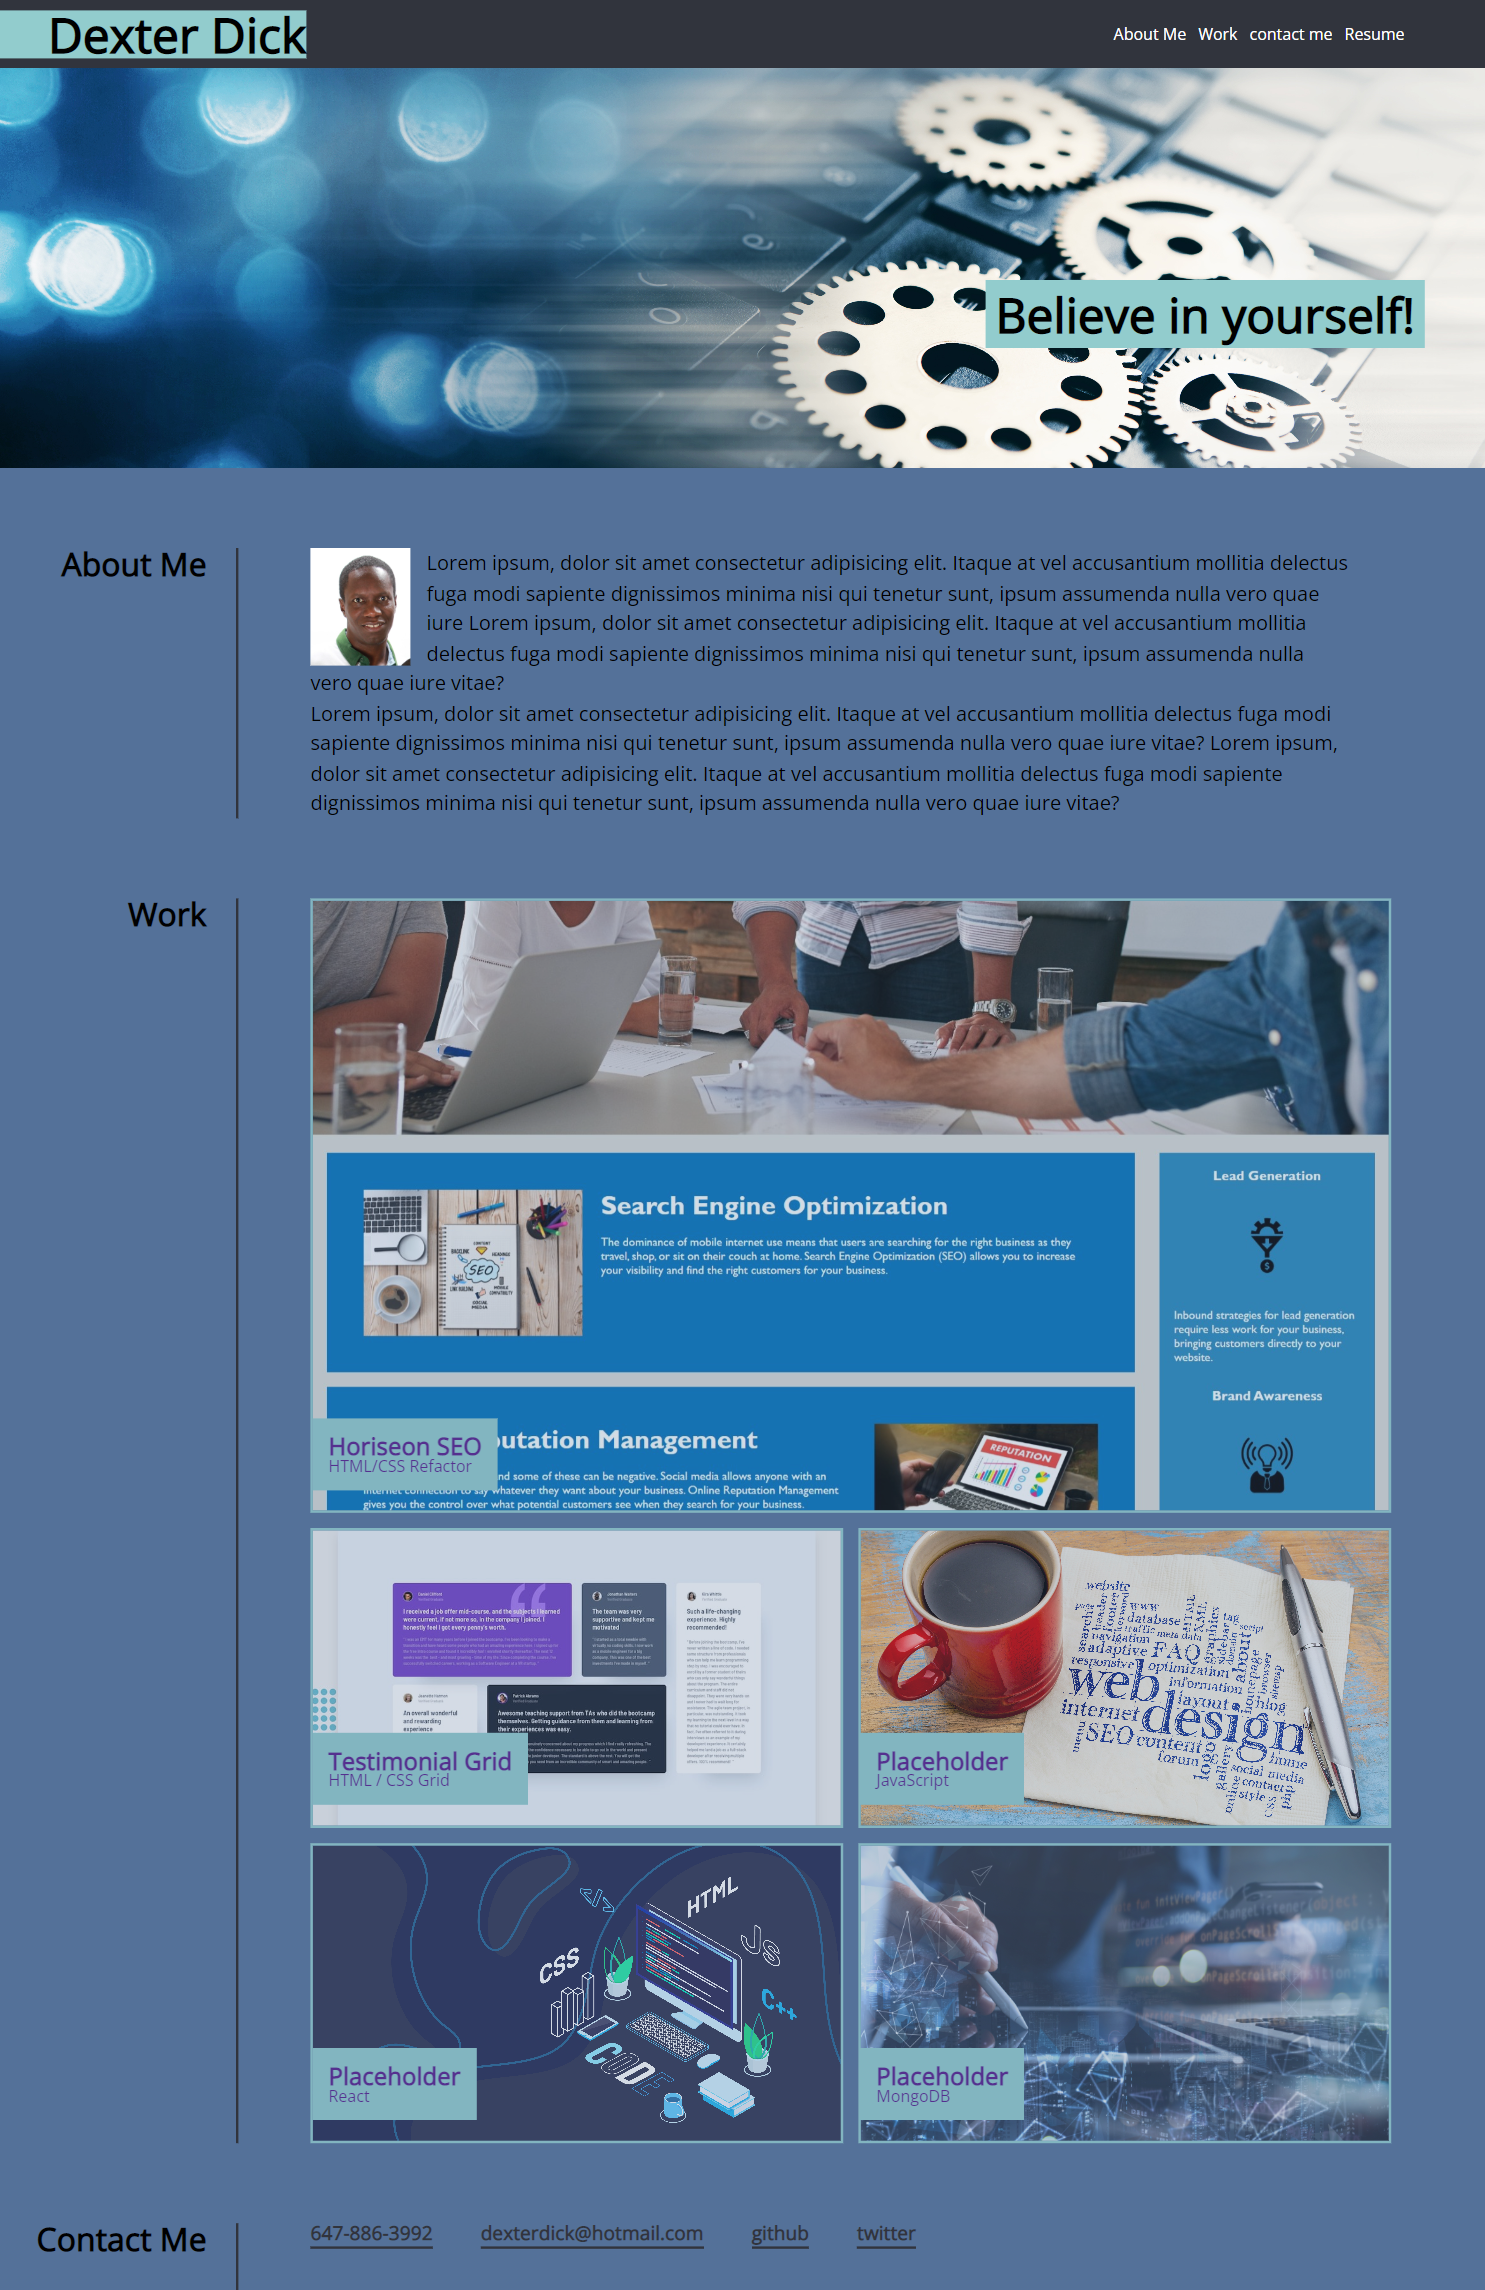
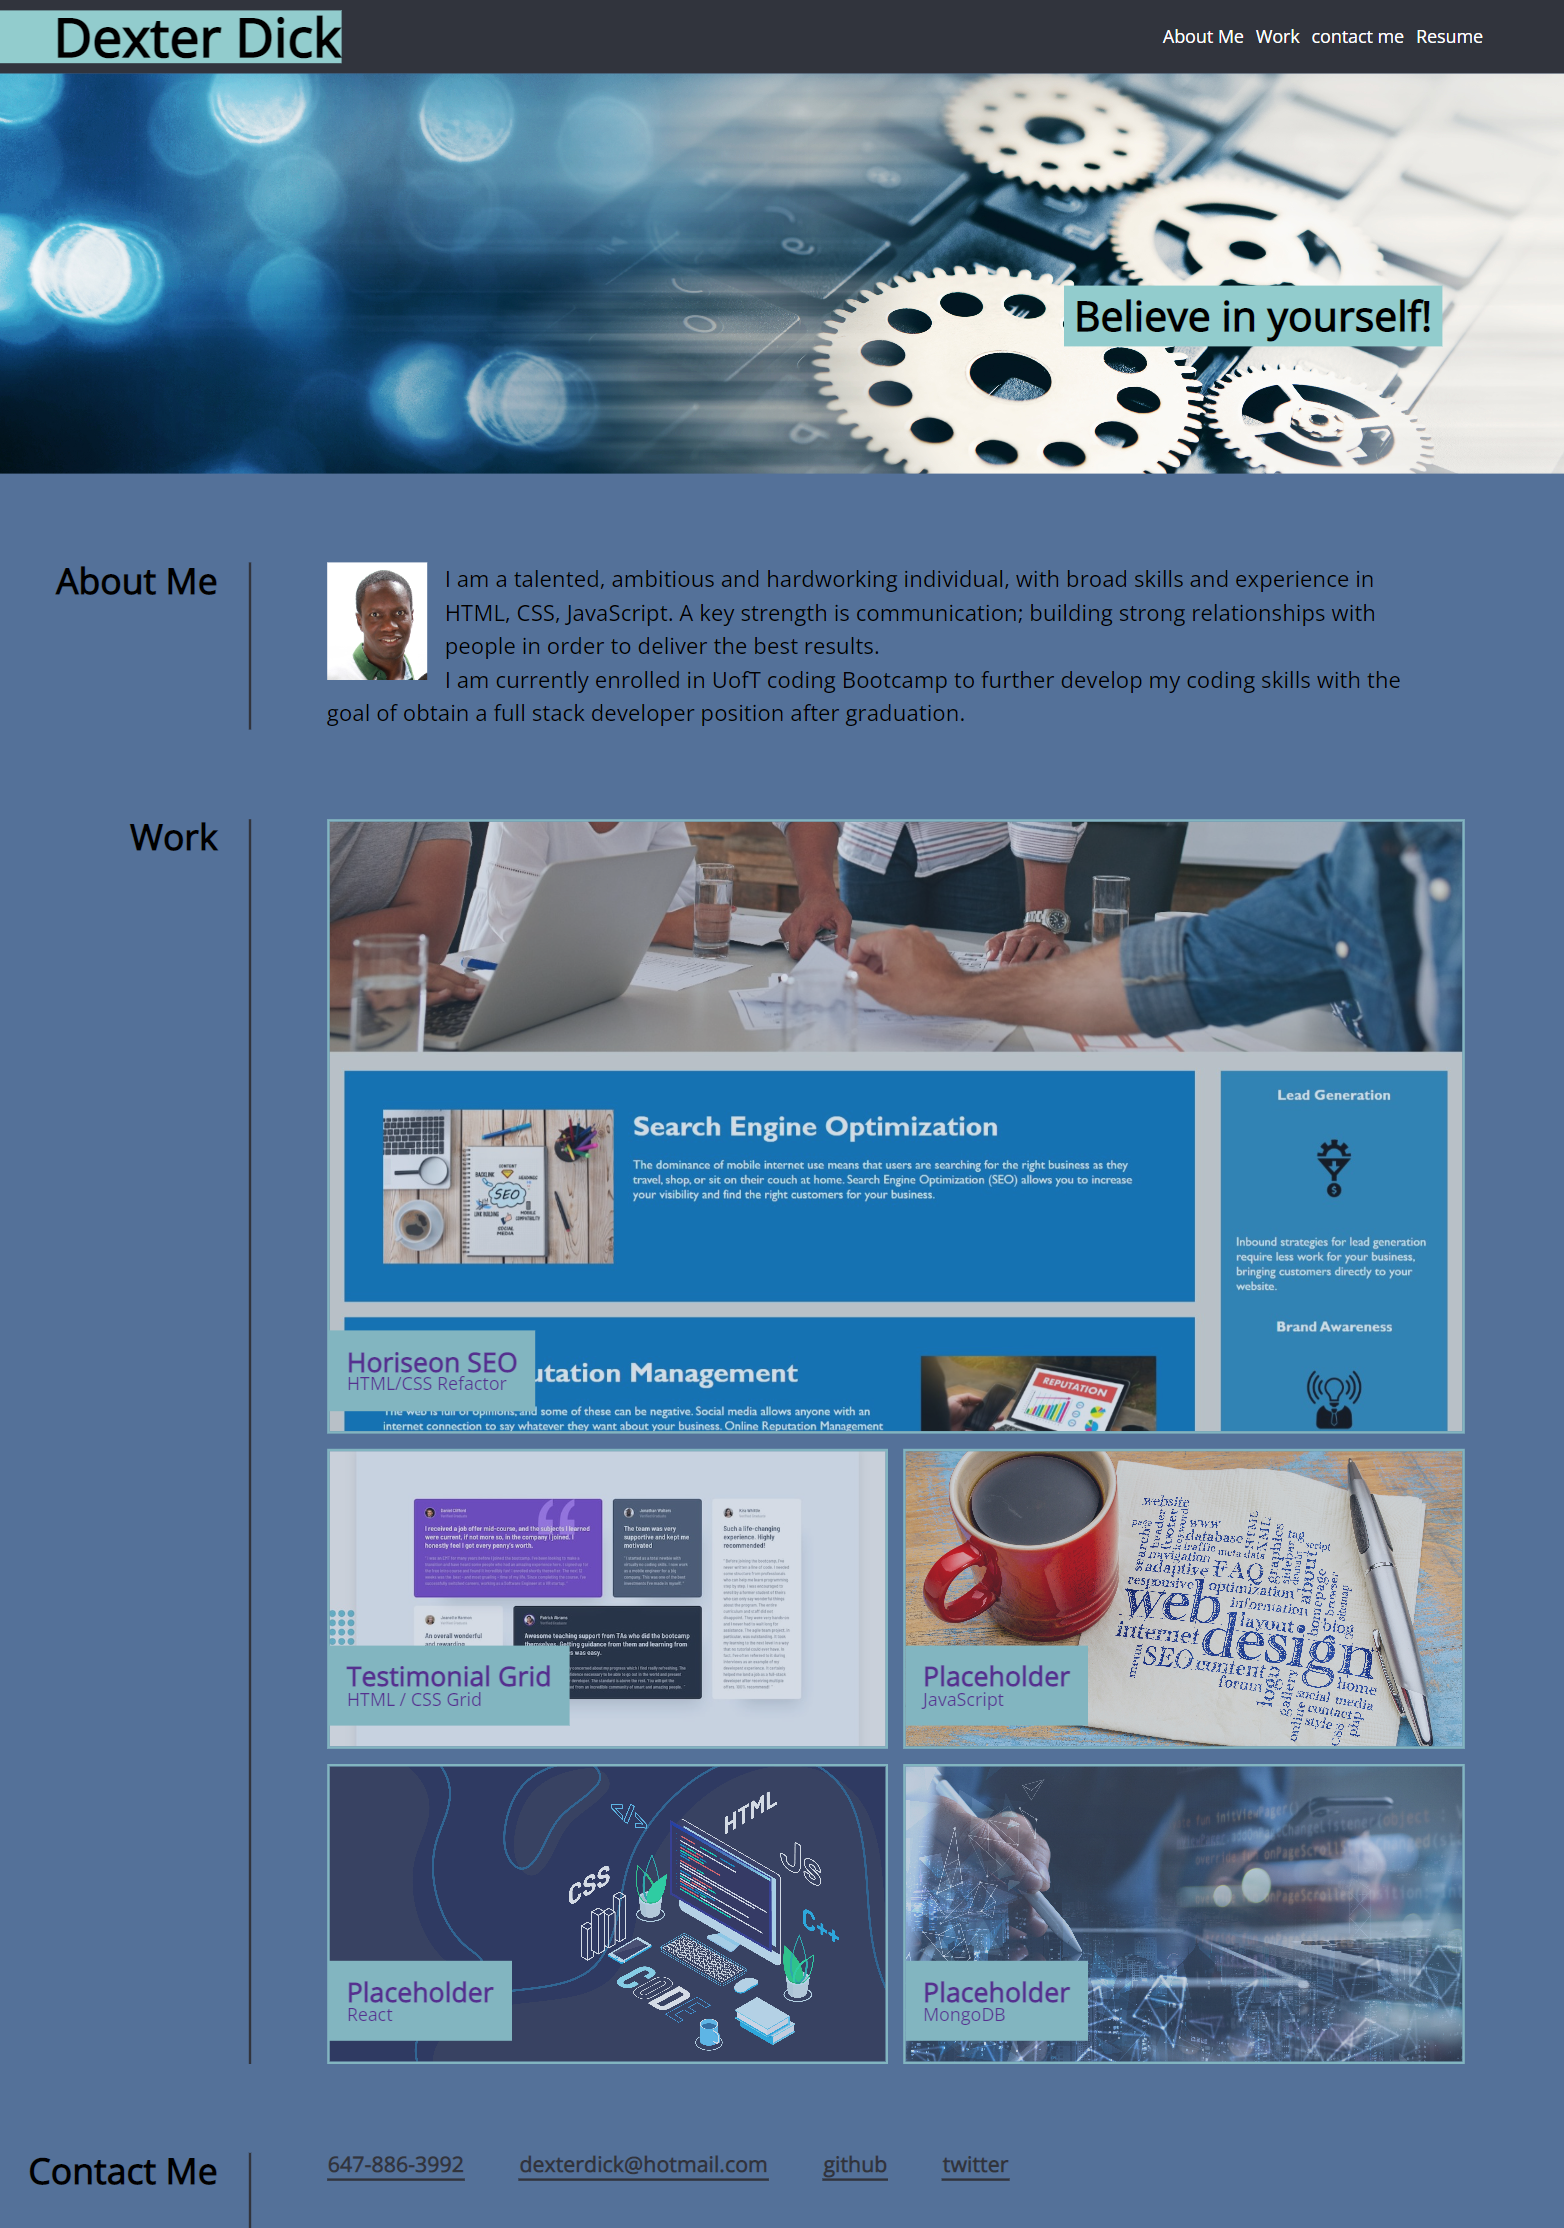
udated about me in html changed css and readme images

diff --git a/index.html b/index.html
@@ -41,22 +41,10 @@
               alt="profile image of Dexter Dick"
             />
             <p>
-              Lorem ipsum, dolor sit amet consectetur adipisicing elit. Itaque at
-              vel accusantium mollitia delectus fuga modi sapiente dignissimos
-              minima nisi qui tenetur sunt, ipsum assumenda nulla vero quae iure
-              Lorem ipsum, dolor sit amet consectetur adipisicing elit. Itaque at
-              vel accusantium mollitia delectus fuga modi sapiente dignissimos
-              minima nisi qui tenetur sunt, ipsum assumenda nulla vero quae iure
-              vitae?
+              I am a talented, ambitious and hardworking individual, with broad skills and experience in HTML, CSS, JavaScript. A key strength is communication; building strong relationships with people in order to deliver the best results.
             </p>
             <p>
-              Lorem ipsum, dolor sit amet consectetur adipisicing elit. Itaque at
-              vel accusantium mollitia delectus fuga modi sapiente dignissimos
-              minima nisi qui tenetur sunt, ipsum assumenda nulla vero quae iure
-              vitae? Lorem ipsum, dolor sit amet consectetur adipisicing elit.
-              Itaque at vel accusantium mollitia delectus fuga modi sapiente
-              dignissimos minima nisi qui tenetur sunt, ipsum assumenda nulla vero
-              quae iure vitae?
+              I am currently enrolled in UofT coding Bootcamp to further develop my coding skills with the goal of obtain a full stack developer position after graduation.
             </p>
           </div>
         </section>

diff --git a/assets/css/style.css b/assets/css/style.css
@@ -6,6 +6,7 @@
   --color-gray: #8493a2;
   --font-serif: "Open Sans", sans-serif;
   --font-robto: "Roboto Slab", serif;
+  --color-white: #ffffff;
 }
 
 html {
@@ -70,34 +71,41 @@ header {
   background-color: var(--color-dark);
   padding: 10px 80px 10px 0px;
 }
-nav a {
+nav a,
+footer a {
   color: var(--color-light-green);
   outline: none;
   text-decoration: none;
   padding: 2px 1px 0;
 }
 
-nav a:link {
-  color: white;
+nav a:link,
+footer a:link {
+  color: var(--color-white);
 }
 
-nav a:visited {
-  color: white;
+nav a:visited,
+footer a:visited {
+  color: var(--color-white);
 }
 
-nav a:focus {
+nav a:focus,
+footer a:focus {
   border-bottom: 1px solid;
   background: green;
 }
 
-nav a:hover {
+nav a:hover,
+footer a:hover {
   border-bottom: 1px solid;
-  background: var(--color-dark);
+  background: #0071bc;
+  font-weight: bold;
 }
 
-nav a:active {
+nav a:active,
+footer a:active {
   background: var(--color-light-green);
-  color: red;
+  color: var(--color-dark);
 }
 
 h1 {
@@ -274,6 +282,10 @@ nav ul {
   }
   h2 {
     font-size: 2rem;
+  }
+
+  h4 {
+    font-size: 1.2rem;
   }
 
   .about-me,

diff --git a/README.md b/README.md
@@ -24,10 +24,10 @@ I enjoyed building this personal portfolio and will continue to update the proje
 ## Screenshots
 
 The following image shows the web website appearance. on large screen.
-![Dexter's portfolio large screen](./assets/images/large-screen.png);
+![Dexter's portfolio large screen](./assets/images/large.png);
 
 The following image shows the web website appearance. on laptop screen.
 ![Dexter's portfolio laptop screen](./assets/images/laptop.png);
 
 The following image shows the web website appearance. on small screen 375px.
-![Dexter's portfolio laptop screen](./assets/images/mobile-375.png);
+![Dexter's portfolio laptop screen](./assets/images/small.png);
